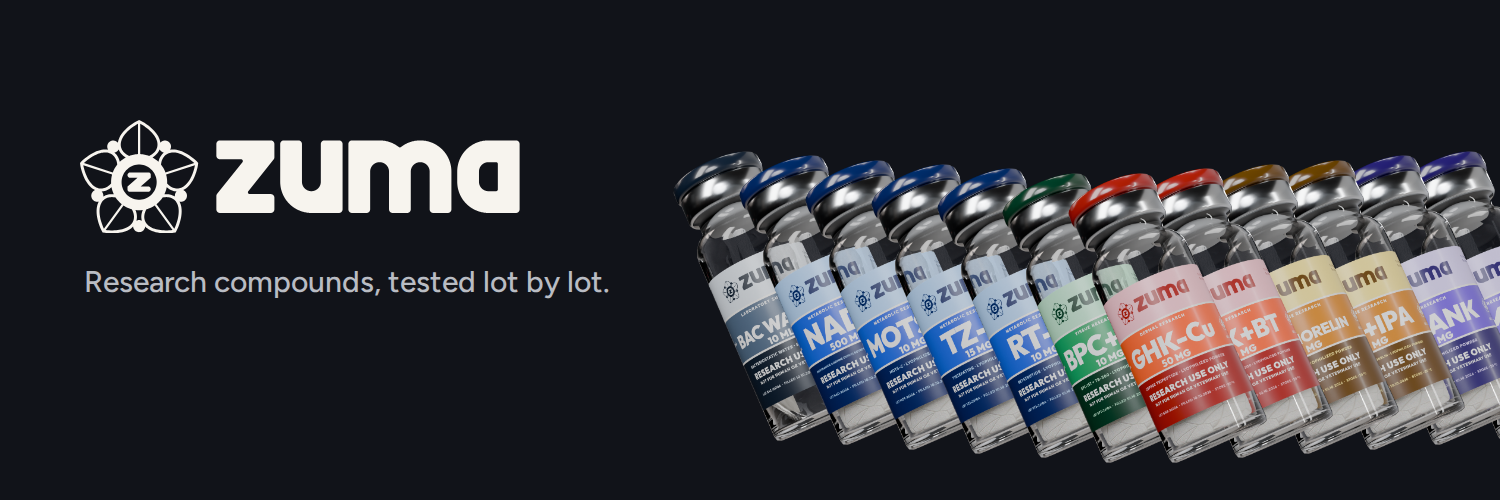
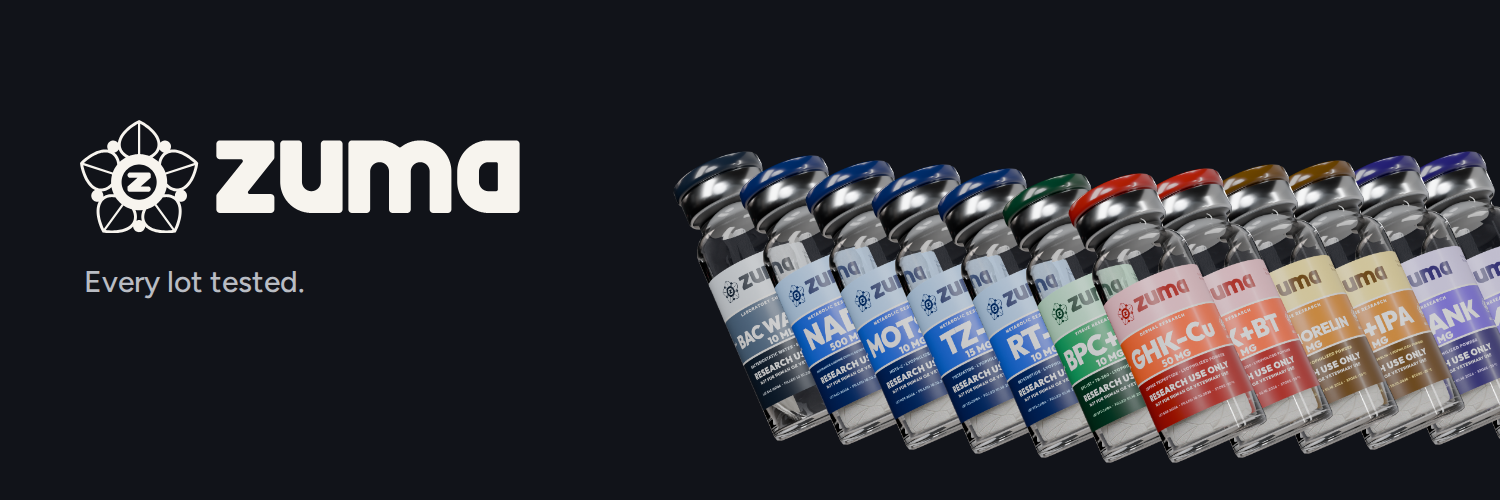
Content: Every lot tested line on the X header and captions
Claude-Session: https://claude.ai/code/session_01WtTNMTJadupUSrfLNmJCKv

Changed region(s): [[0.0613, 0.54, 0.3987, 0.6]]

diff --git a/zuma-content/README.md b/zuma-content/README.md
@@ -8,7 +8,7 @@ Instagram shows the newest post top-left, so post them **in reverse**: 9 first, 
 
 | Grid spot | File | Caption |
 |---|---|---|
-| 1 (post last) | `ig-1-logo.png` | zuma. Research compounds, tested lot by lot. Now open at zumatides.com |
+| 1 (post last) | `ig-1-logo.png` | zuma. Every lot tested. Now open at zumatides.com |
 | 2 | `ig-2-meet.png` | Meet the 12. Twelve research compounds across six areas, each in its own colour. Every lot is tested and every report is published before it ships. |
 | 3 | `ig-3-lots.png` | Every lot tested. Purity by HPLC, identity by mass spectrometry. Each vial carries its lot number and a QR code to that lot's report. |
 | 4 | `ig-4-metabolic.png` | Metabolic research: RT-3 (retatrutide), TZ-2 (tirzepatide), MOTS-c and NAD+. Blue on every label and carton. |
@@ -23,7 +23,7 @@ End every caption with: **For laboratory research use only. Not for human or vet
 ## X
 
 - Header: `x-header.png` (1500 × 500). Profile picture: `x-profile.png` (400 × 400).
-- Bio: Research compounds, tested lot by lot. Every lot report published. For laboratory research use only. zumatides.com
+- Bio: Every lot tested. Every lot report published. For laboratory research use only. zumatides.com
 
 Launch thread:
 
